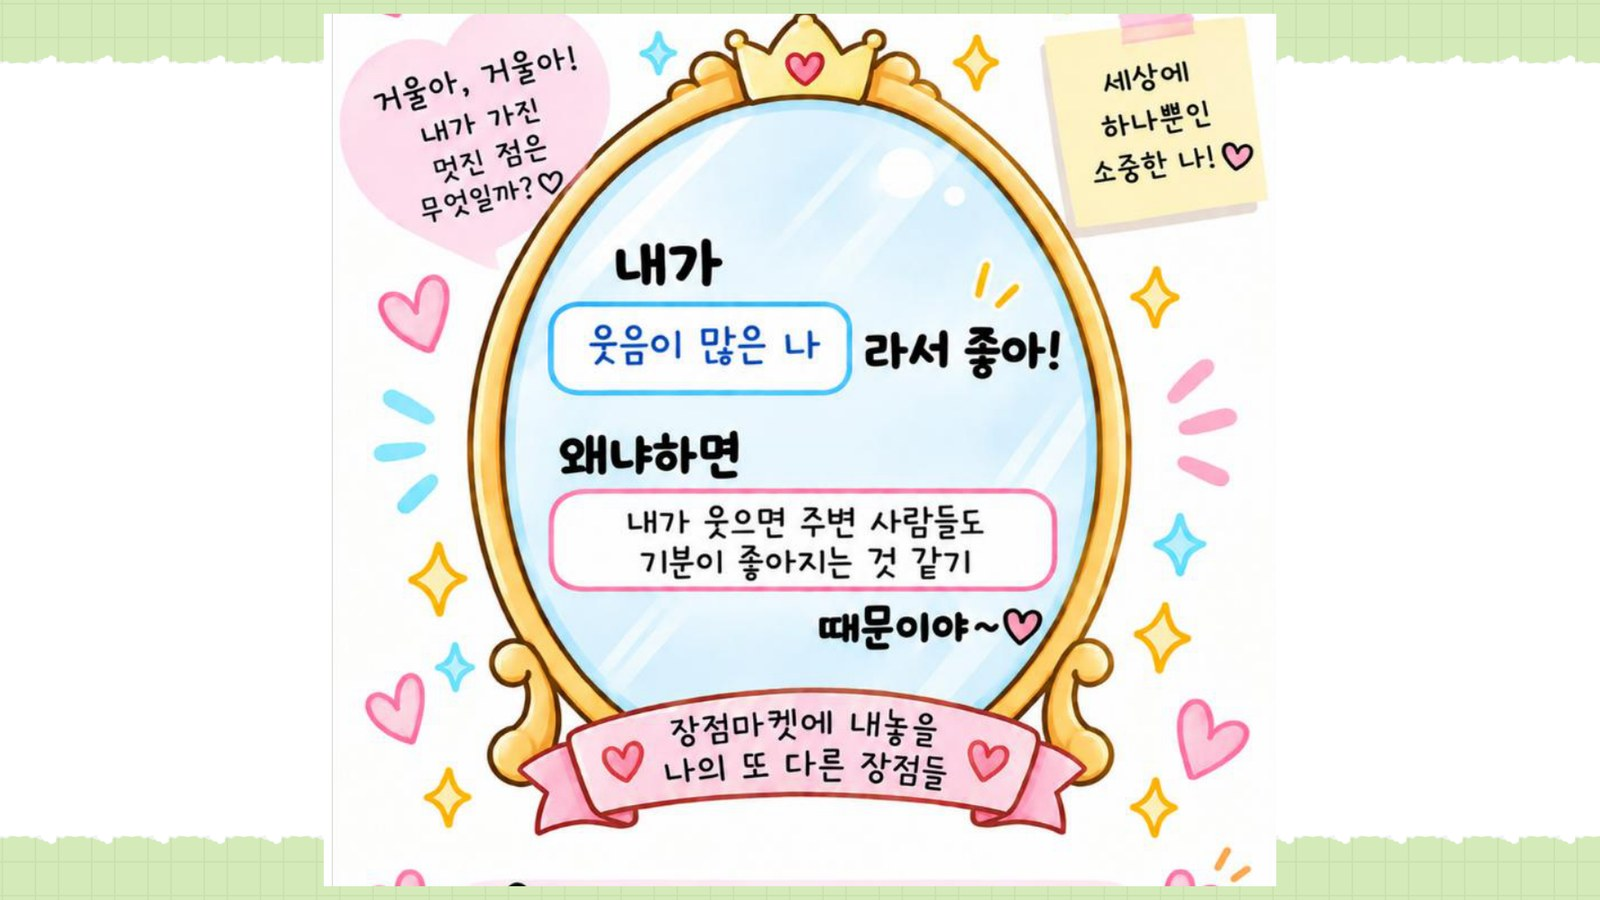
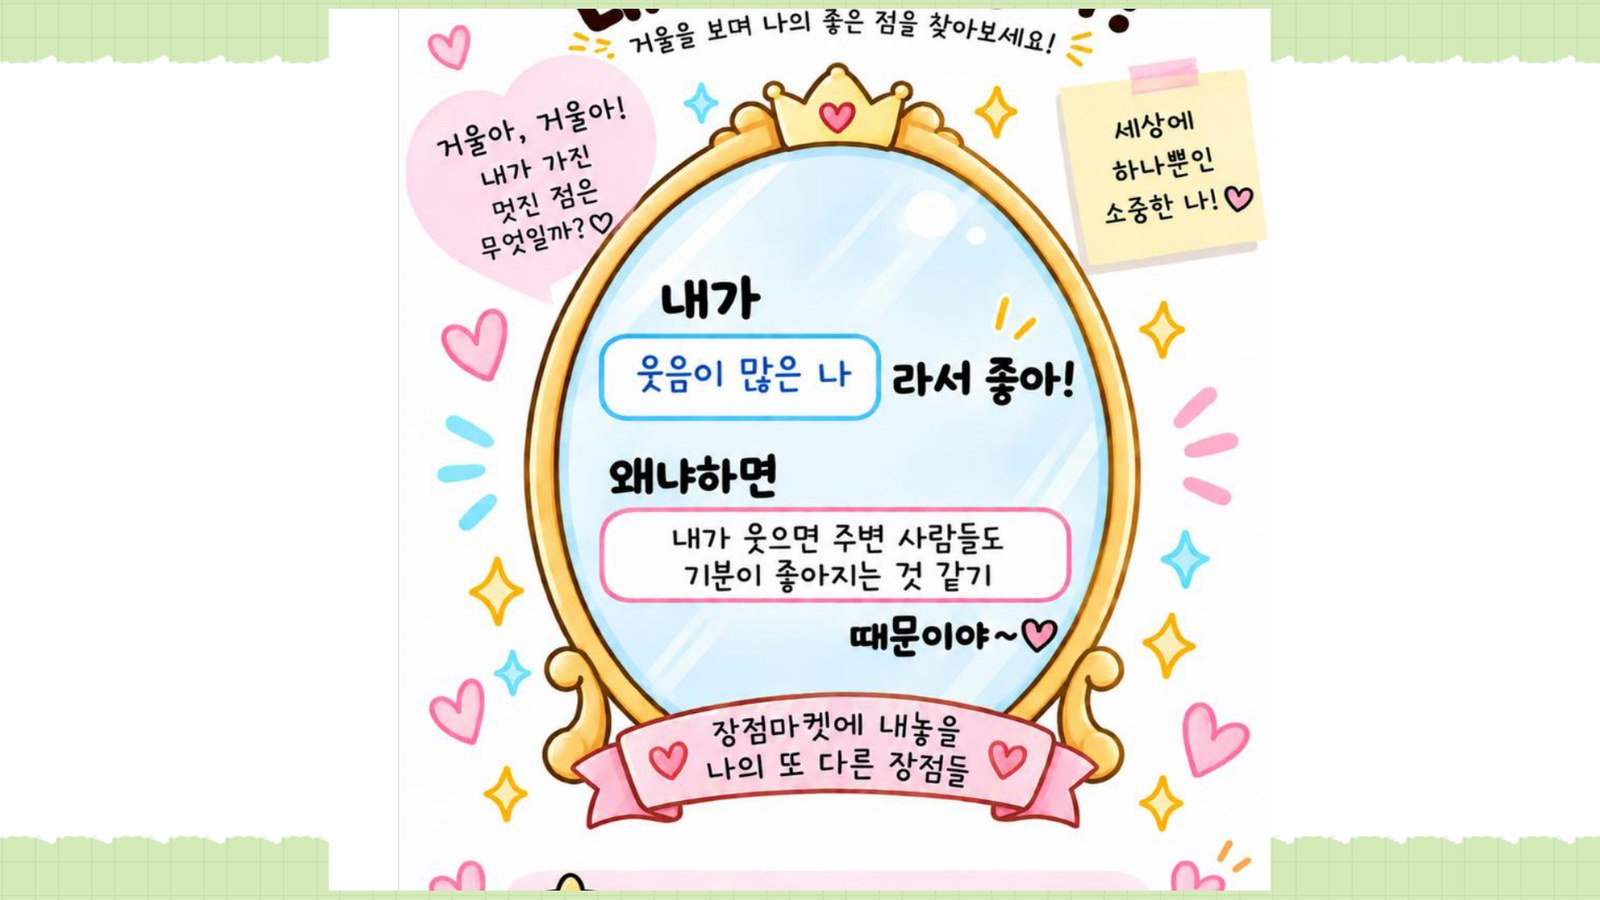
예시 1·2 크기 완전히 통일
원인: 장마다 흰 여백을 자동으로 잘라내다 보니 잘린 크기가 달라
1번→2번 넘어갈 때 거울 크기가 튀었다.
→ 두 장 모두 「같은 자리, 같은 크기」 상자(원본 846,104~1596,806)로 자르고
  같은 배율로 키워 16:9 배경 위에 얹었다. 두 이미지 모두 1600×900.

Claude-Session: https://claude.ai/code/session_01HwcFfa8KNXHyJGf1Wknv3A

Changed region(s): [[0.1875, 0.0, 0.8125, 0.9956]]

diff --git a/index.html b/index.html
@@ -10,7 +10,7 @@
 <link rel="preconnect" href="https://fonts.googleapis.com">
 <link rel="preconnect" href="https://fonts.gstatic.com" crossorigin>
 <link href="https://fonts.googleapis.com/css2?family=Jua&family=Gaegu:wght@400;700&display=swap" rel="stylesheet">
-<script>window.APP_VER="20260910-1635";</script>
+<script>window.APP_VER="20260910-1642";</script>
 <style>
   :root{
     --bg:#FFF7ED; --card:#FFFFFF; --ink:#1F2937; --sub:#6B7280;
